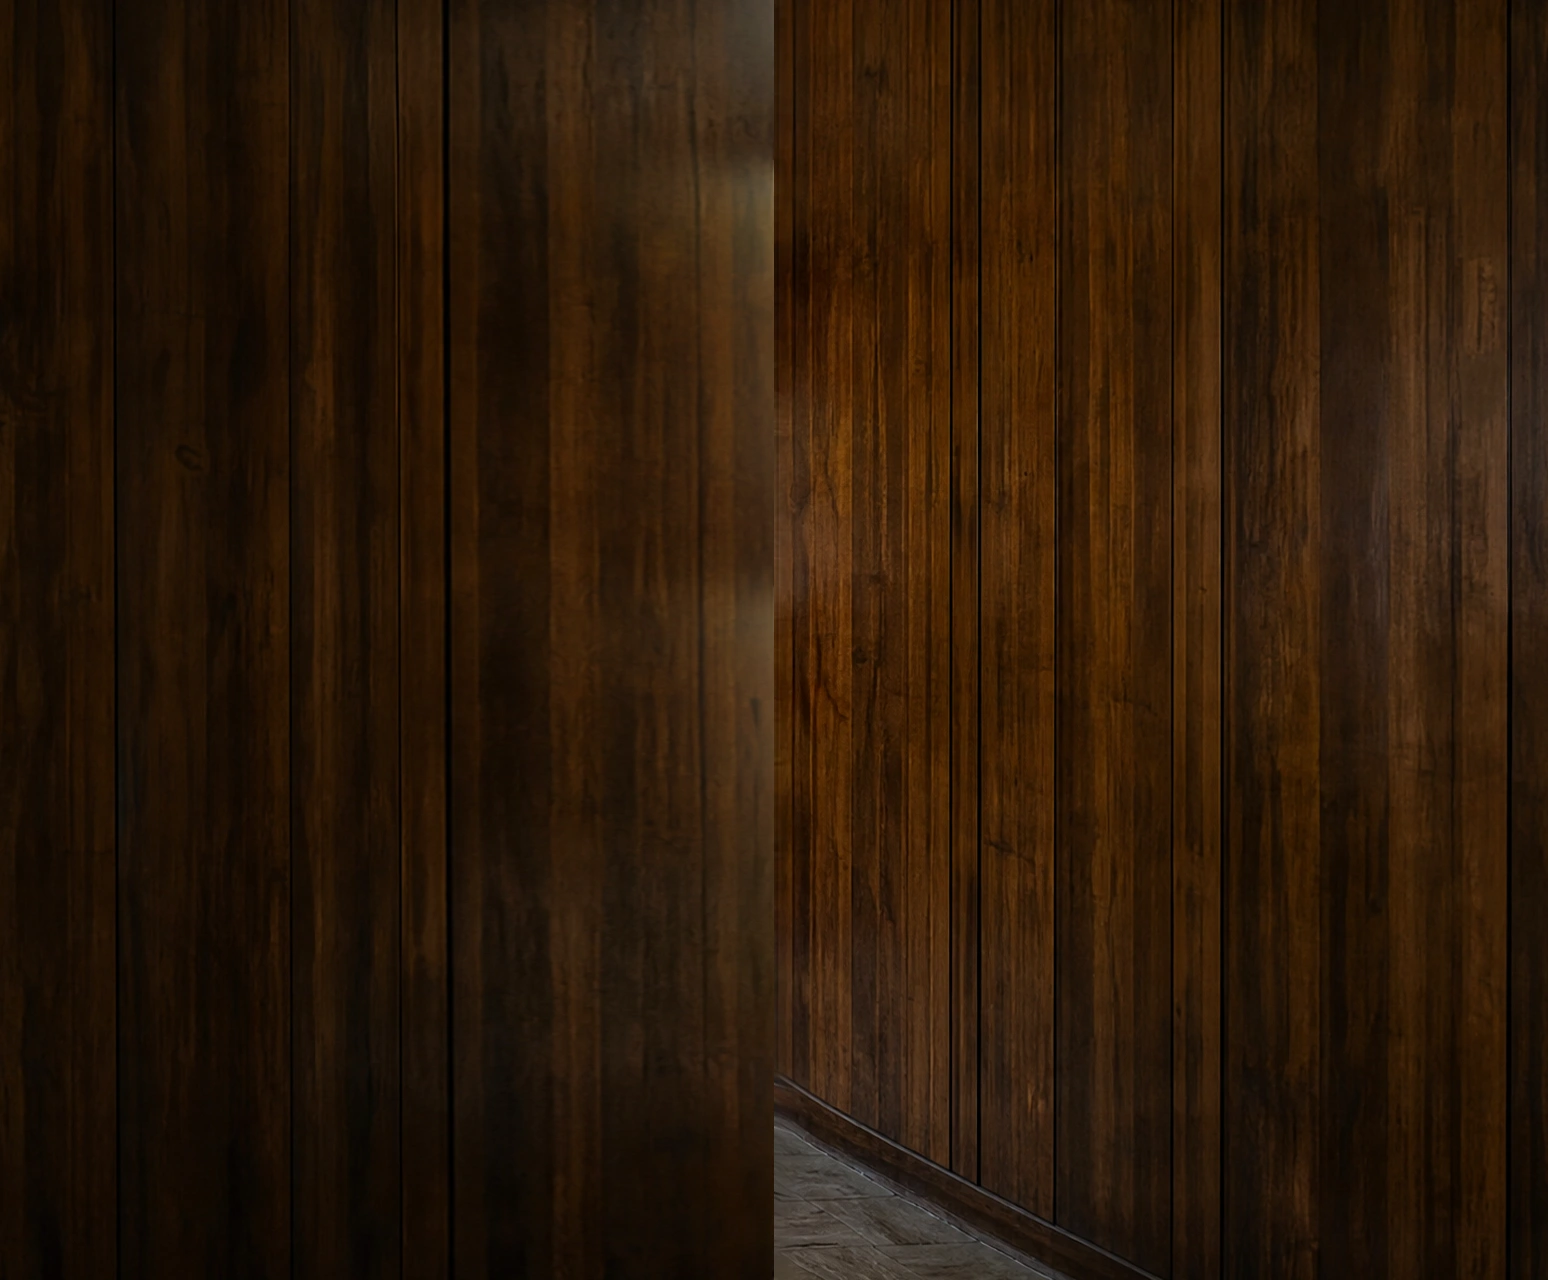
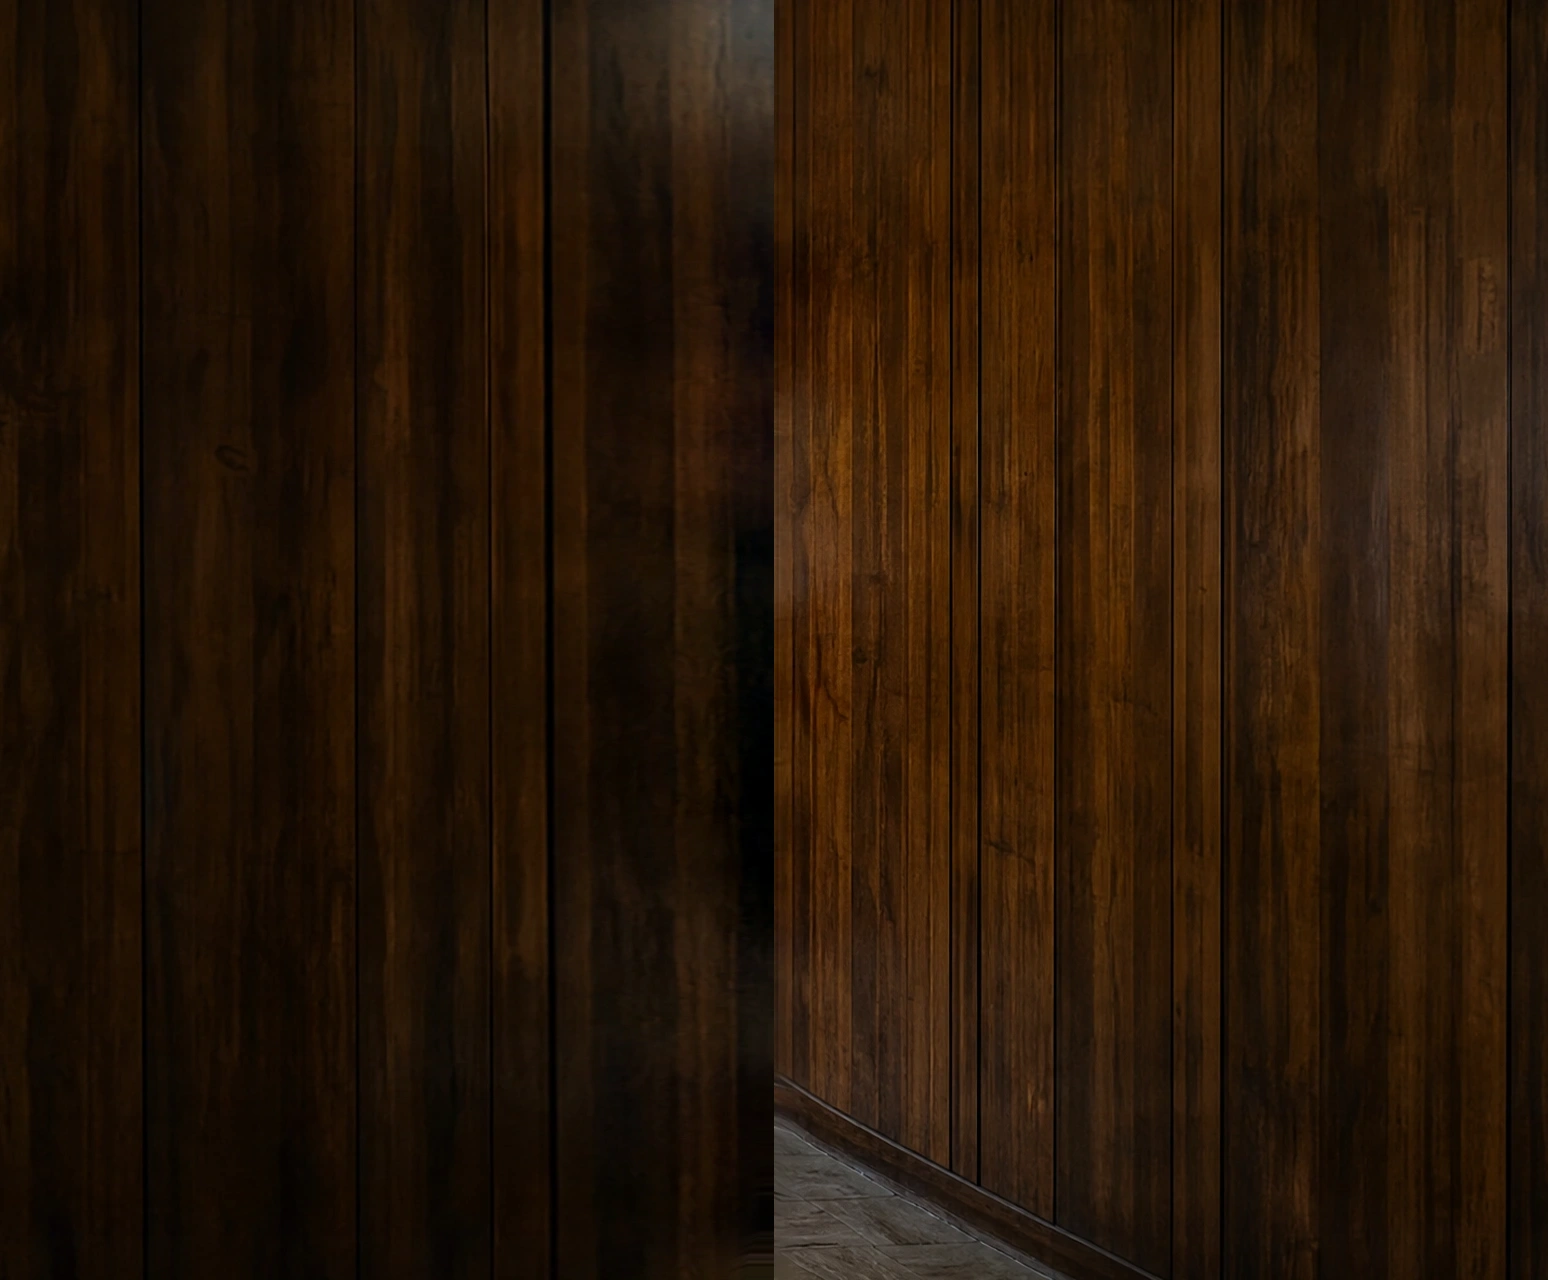
Resolve RS curtain and RBiH switch at panorama joins

diff --git a/src/ui/map/components/warroom/warroom-scene-plate.css b/src/ui/map/components/warroom/warroom-scene-plate.css
@@ -12,7 +12,7 @@
 
 .warroom-scene-wing--left {
   /* Cover fractional-pixel joins behind the original plate. */
-  right: calc(100% - 1px);
+  right: calc(100% - var(--wing-overlap));
   background-position: left center;
 }
 
@@ -23,6 +23,16 @@
 
 @media (min-aspect-ratio: 43/24) {
   .warroom-scene-wing { display: block; }
+
+  /* The original RS crop shows a sliver of a curtain at the boundary.
+     The wide atlas carries solid paneling up to that contour. */
+  [data-cover-left-curtain="true"] > .warroom-scene-wing--left {
+    --wing-overlap: 2.5742%;
+  }
+
+  [data-cover-left-curtain="true"] > img {
+    clip-path: polygon(0 0, 100% 0, 100% 100%, 1.3525% 100%, 1.4834% 97.6563%, 2.007% 96.0938%, 2.1379% 93.75%, 1.8761% 89.8438%, 1.4834% 85.9375%, 1.3089% 82.0313%, 1.2653% 78.125%, 1.178% 70.3125%, 1.178% 62.5%, 1.1344% 54.6875%, 1.0471% 46.875%, 0.9162% 39.0625%, 0.7853% 31.25%, 0.5672% 23.4375%, 0.349% 15.625%, 0.1745% 11.7188%, 0% 8.9844%);
+  }
 
   /* The RBiH source has a bright edge across the clipped switch plate.
      Fade just that decorative edge over its prepared seven-pixel overlap. */

diff --git a/tests/ui/warroom_scene_continuity.test.ts b/tests/ui/warroom_scene_continuity.test.ts
@@ -84,11 +84,12 @@ describe('Warroom scene continuity', () => {
   it('keeps both panoramic extensions and the interactive children in the original coordinate frame', () => {
     render(createElement(
       WarroomScenePlate,
-      { src: '/room.webp', wideSrc: '/wings.webp', softenRightJoin: true },
+      { src: '/room.webp', wideSrc: '/wings.webp', softenRightJoin: true, coverLeftCurtain: true },
       createElement('button', { type: 'button' }, 'Hotspot'),
     ));
     const plate = screen.getByTestId('warroom-scene-plate');
     expect(plate.getAttribute('data-soften-right-join')).toBe('true');
+    expect(plate.getAttribute('data-cover-left-curtain')).toBe('true');
     const wings = screen.getAllByTestId('warroom-scene-wing');
     expect(wings).toHaveLength(2);
     for (const wing of wings) {

diff --git a/src/ui/map/components/warroom/WarroomScenePlate.tsx b/src/ui/map/components/warroom/WarroomScenePlate.tsx
@@ -9,6 +9,7 @@ export interface WarroomScenePlateProps {
   src: string;
   wideSrc?: string;
   softenRightJoin?: boolean;
+  coverLeftCurtain?: boolean;
   state?: 'current' | 'incoming';
   transformOrigin?: string;
   className?: string;
@@ -23,6 +24,7 @@ export function WarroomScenePlate({
   src,
   wideSrc,
   softenRightJoin,
+  coverLeftCurtain,
   state = 'current',
   transformOrigin,
   className,
@@ -38,6 +40,7 @@ export function WarroomScenePlate({
       data-testid="warroom-scene-plate"
       data-scene-state={state}
       data-soften-right-join={wideSrc && softenRightJoin ? true : undefined}
+      data-cover-left-curtain={wideSrc && coverLeftCurtain ? true : undefined}
       style={{
         position: 'absolute',
         left: '50%',

diff --git a/src/ui/map/components/warroom/WarroomShellLayer.tsx b/src/ui/map/components/warroom/WarroomShellLayer.tsx
@@ -1123,6 +1123,7 @@ export function WarroomShellLayer({ onNavigate, onOpenSidePicker, statusDock }: 
       <WarroomScenePlate src={scenePlateUrl}
         wideSrc={warroomWideSceneUrl(playerFaction, year)}
         softenRightJoin={playerFaction === 'RBiH'}
+        coverLeftCurtain={playerFaction === 'RS'}
       >
         <WarroomToolbar onNavigate={onNavigate} />
         {statusDock}

diff --git a/docs/PROJECT_LEDGER.md b/docs/PROJECT_LEDGER.md
@@ -13914,3 +13914,10 @@ Rebuilt all 15 extensions using one fixed side-art master per faction. RBiH uses
 - Compared five-year sequences and inspected 30 joins. The normal and ultrawide browser matrix verified 12 live rooms, each with ten registered targets and overlays, and direct scene previews covered all three 1991 entries.
 - Focused Warroom tests 111/111, followed by 23/23 after the RBiH join change. Typecheck, production map build, all 15 packaged map atlases, chunk cycle check, and board-luminance check passed. No simulation, state, save, scenario, or calibration changes.
 - Evidence is under F:/AWWV-worktrees/.warroom-ultrawide/continuity-fix. No native Electron package or hosted CI run in this slice.
+
+## 2026-11-08 — Correct RS and RBiH panorama joins (UI, ART)
+
+Reviewed both joins in all 15 scenes after player feedback. The five RS left wings carry wood paneling across the old curtain fragment. A contour applied to the center art only on wide screens clears the fragment while preserving the adjacent coat-rack hotspot. The five RBiH right wings extend the original switch with a blank face and one bezel.
+
+- Chromium verified eight hittable objects, the live map, the date board, and edge coverage in all 12 playable rooms at 1280 × 720 and 3426 × 1186. Direct previews covered all three 1991 plates at both sizes.
+- All 30 focused tests, typecheck, the production map build, the chunk cycle check, and the inventory of 15 bundled atlases passed. Evidence is under F:/AWWV-worktrees/.warroom-ultrawide/continuity-detail.
